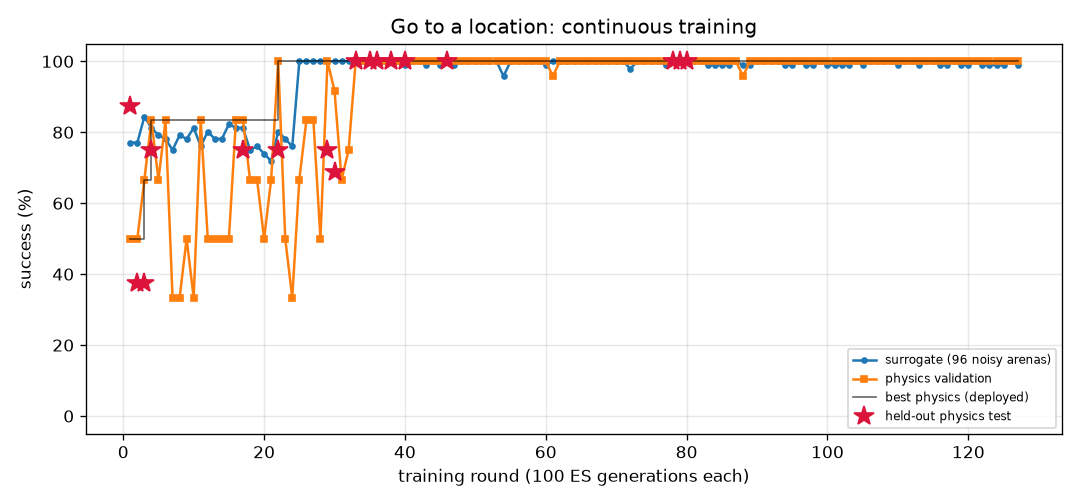
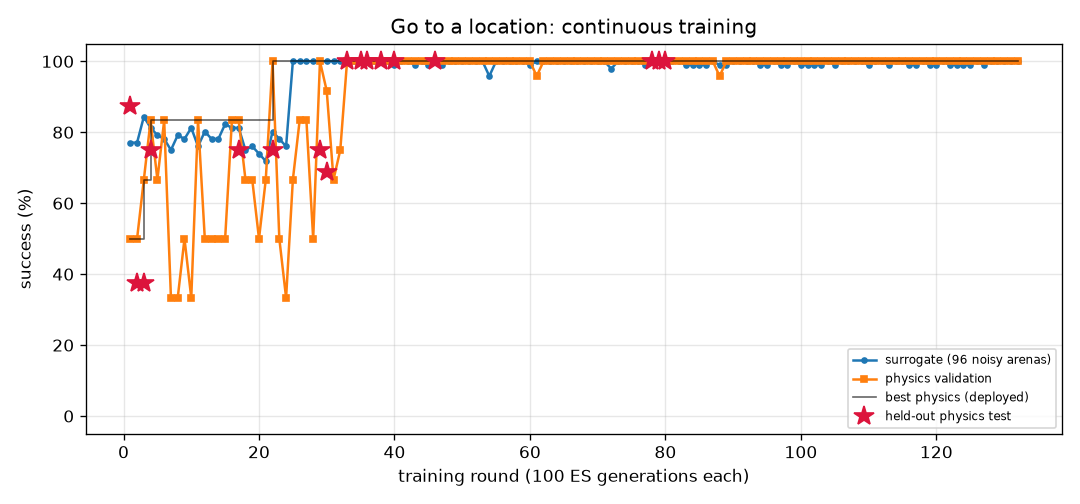
FlyLab: continuous training progress
- walk_forward: optimal, physics val 100% of 24, round 142
- turn: optimal, physics val 100% of 24, round 572
- goto: optimal, physics val 100% of 24, round 132
- odor_seek: optimal, physics val 100% of 24, round 119
- odor_avoid: optimal, physics val 100% of 24, round 560
- light_seek: optimal, physics val 100% of 24, round 316
- light_avoid: optimal, physics val 100% of 24, round 292

diff --git a/projects/09_flylab/training/walk_forward/REPORT.md b/projects/09_flylab/training/walk_forward/REPORT.md
@@ -1,14 +1,14 @@
 # Walk forward (`walk_forward`) — training report
 
-*Auto-generated by `train_brains.py`, last updated 2026-10-20T14:56:50.*
+*Auto-generated by `train_brains.py`, last updated 2026-10-20T18:19:25.*
 
 ![curve](curve.png)
 
 | | |
 |---|---|
-| rounds | 137 |
-| ES generations | 13700 |
-| physics runs | 3302 |
+| rounds | 142 |
+| ES generations | 14200 |
+| physics runs | 3422 |
 | status | **optimal** |
 | best brain | round 116: physics validation **100%** on 24 arenas, surrogate 100% |
 | held-out physics test | **100%** on 32 unseen arenas (95% CI 89%-100%) (errors: [0.13, 0.16, 0.19, 0.16, 0.15, 0.2, 0.17, 0.18, 0.17, 0.19, 0.2, 0.14, 0.17, 0.19, 0.2, 0.2, 0.13, 0.19, 0.16, 0.2, 0.2, 0.16, 0.17, 0.2, 0.13, 0.15, 0.18, 0.14, 0.16, 0.15, 0.19, 0.12]) |
@@ -17,11 +17,6 @@ Physics error per arena: mm from target at the end (< 1.5 and standing still = s
 
 | round | level | gens | sigma | surrogate | physics val | val errors | test | note |
 |---:|---:|---:|---:|---:|---:|---|---:|---|
-| 98 | 3 | 9800 | 0.024 | 100% | 100% | [0.32, 0.33, 0.34, 0.29, 0.32, 0.18, 0.36, 0.24, 0.32, 0.45, 0.19, 0.35, 0.25, 0.21, 0.3, 0.49, 0.33, 0.38, 0.24, 0.41, 0.28, 0.37, 0.38, 0.24] |  |  |
-| 99 | 3 | 9900 | 0.024 | 100% | 100% | [0.2, 0.24, 0.2, 0.19, 0.23, 0.2, 0.24, 0.19, 0.23, 0.25, 0.2, 0.24, 0.2, 0.21, 0.21, 0.25, 0.2, 0.24, 0.19, 0.21, 0.2, 0.25, 0.28, 0.2] |  | restart from best |
-| 100 | 3 | 10000 | 0.024 | 100% | 96% | [0.14, 0.16, 0.12, 0.07, 0.16, 0.12, 0.11, 0.04, 0.09, 0.15, 0.07, 0.16, 0.12, 0.07, 0.08, 0.17, 0.08, 0.17, 0.13, 0.13, 0.14, 0.16, 0.14, 0.12] |  |  |
-| 101 | 3 | 10100 | 0.024 | 100% | 83% | [0.07, 0.19, 0.44, 0.06, 0.18, 0.02, 0.18, 0.04, 0.16, 0.23, 0.03, 0.25, 0.04, 0.08, 0.08, 0.24, 0.06, 0.14, 0.06, 0.1, 0.07, 0.23, 0.23, 0.02] |  |  |
-| 102 | 3 | 10200 | 0.024 | 100% | 83% | [0.09, 0.25, 0.11, 0.07, 0.26, 0.11, 0.26, 0.1, 0.25, 0.26, 0.22, 0.2, 0.1, 0.35, 0.2, 0.22, 0.06, 0.25, 0.06, 0.22, 0.06, 0.26, 0.18, 0.1] |  |  |
 | 103 | 3 | 10300 | 0.024 | 99% | 100% | [0.24, 0.32, 0.26, 0.25, 0.31, 0.26, 0.32, 0.04, 0.32, 0.31, 0.27, 0.3, 0.23, 0.26, 0.27, 0.31, 0.24, 0.31, 0.23, 0.29, 0.23, 0.31, 0.29, 0.23] |  | restart from best |
 | 104 | 3 | 10400 | 0.024 | 100% | 100% | [0.17, 0.25, 0.22, 0.16, 0.26, 0.22, 0.26, 0.18, 0.25, 0.29, 0.23, 0.28, 0.19, 0.22, 0.17, 0.28, 0.17, 0.22, 0.19, 0.19, 0.17, 0.29, 0.28, 0.19] |  |  |
 | 105 | 3 | 10500 | 0.024 | 100% | 100% | [0.09, 0.18, 0.21, 0.07, 0.18, 0.21, 0.19, 0.18, 0.18, 0.26, 0.22, 0.26, 0.19, 0.21, 0.14, 0.26, 0.15, 0.17, 0.18, 0.14, 0.17, 0.26, 0.26, 0.18] |  |  |
@@ -57,3 +52,8 @@ Physics error per arena: mm from target at the end (< 1.5 and standing still = s
 | 135 | 3 | 13500 | 0.024 | 99% | 100% | [0.2, 0.21, 0.17, 0.2, 0.21, 0.15, 0.21, 0.18, 0.21, 0.2, 0.15, 0.18, 0.17, 0.16, 0.21, 0.19, 0.2, 0.21, 0.18, 0.21, 0.18, 0.2, 0.19, 0.17] |  |  |
 | 136 | 3 | 13600 | 0.025 | 100% | 100% | [0.21, 0.3, 0.18, 0.21, 0.29, 0.19, 0.3, 0.17, 0.31, 0.31, 0.2, 0.29, 0.17, 0.18, 0.24, 0.3, 0.19, 0.29, 0.17, 0.26, 0.17, 0.3, 0.29, 0.17] |  | restart from best |
 | 137 | 3 | 13700 | 0.024 | 100% | 100% | [0.25, 0.25, 0.22, 0.25, 0.25, 0.2, 0.25, 0.23, 0.25, 0.24, 0.2, 0.22, 0.23, 0.2, 0.26, 0.23, 0.25, 0.25, 0.23, 0.25, 0.23, 0.24, 0.22, 0.23] |  |  |
+| 138 | 3 | 13800 | 0.024 | 99% | 100% | [0.19, 0.21, 0.15, 0.19, 0.21, 0.15, 0.21, 0.17, 0.21, 0.2, 0.14, 0.19, 0.16, 0.15, 0.2, 0.19, 0.19, 0.21, 0.18, 0.21, 0.18, 0.2, 0.18, 0.16] |  |  |
+| 139 | 3 | 13900 | 0.025 | 99% | 100% | [0.11, 0.09, 0.08, 0.06, 0.09, 0.09, 0.15, 0.1, 0.12, 0.16, 0.07, 0.17, 0.08, 0.07, 0.11, 0.18, 0.1, 0.14, 0.1, 0.11, 0.09, 0.16, 0.18, 0.1] |  |  |
+| 140 | 3 | 14000 | 0.025 | 100% | 100% | [0.2, 0.26, 0.08, 0.2, 0.25, 0.08, 0.25, 0.17, 0.25, 0.26, 0.07, 0.24, 0.16, 0.07, 0.22, 0.25, 0.18, 0.25, 0.16, 0.23, 0.17, 0.25, 0.23, 0.16] |  | restart from best |
+| 141 | 3 | 14100 | 0.024 | 100% | 96% | [0.21, 0.22, 0.15, 0.21, 0.22, 0.03, 0.22, 0.18, 0.22, 0.2, 0.08, 0.07, 0.17, 0.08, 0.21, 0.12, 0.2, 0.22, 0.18, 0.22, 0.2, 0.18, 0.15, 0.18] |  |  |
+| 142 | 3 | 14200 | 0.024 | 100% | 100% | [0.28, 0.26, 0.32, 0.28, 0.26, 0.32, 0.26, 0.32, 0.26, 0.23, 0.31, 0.23, 0.32, 0.32, 0.28, 0.23, 0.29, 0.26, 0.32, 0.28, 0.31, 0.23, 0.22, 0.32] |  |  |

diff --git a/projects/09_flylab/training/goto/REPORT.md b/projects/09_flylab/training/goto/REPORT.md
@@ -1,14 +1,14 @@
 # Go to a location (`goto`) — training report
 
-*Auto-generated by `train_brains.py`, last updated 2026-10-20T17:17:34.*
+*Auto-generated by `train_brains.py`, last updated 2026-10-20T18:11:47.*
 
 ![curve](curve.png)
 
 | | |
 |---|---|
-| rounds | 127 |
-| ES generations | 12700 |
-| physics runs | 2934 |
+| rounds | 132 |
+| ES generations | 13200 |
+| physics runs | 3054 |
 | status | **optimal** |
 | best brain | round 80: physics validation **100%** on 24 arenas, surrogate 100% |
 | held-out physics test | **100%** on 32 unseen arenas (95% CI 89%-100%) (errors: [0.36, 0.41, 0.3, 0.45, 0.32, 0.33, 0.33, 0.31, 0.35, 0.36, 0.39, 0.36, 0.28, 0.31, 0.4, 0.39, 0.34, 0.39, 0.3, 0.34, 0.36, 0.36, 0.44, 0.34, 0.3, 0.33, 0.4, 0.33, 0.29, 0.43, 0.43, 0.39]) |
@@ -17,11 +17,6 @@ Physics error per arena: mm from target at the end (< 1.5 and standing still = s
 
 | round | level | gens | sigma | surrogate | physics val | val errors | test | note |
 |---:|---:|---:|---:|---:|---:|---|---:|---|
-| 88 | 3 | 8800 | 0.024 | 99% | 96% | [0.64, 0.65, 0.59, 0.59, 0.51, 0.58, 0.66, 0.66, 0.68, 0.53, 0.51, 0.58, 0.66, 0.53, 0.56, 0.58, 0.68, 0.6, 0.52, 0.62, 0.57, 0.54, 0.64, 0.59] |  | restart from best |
-| 89 | 3 | 8900 | 0.024 | 99% | 100% | [0.53, 0.45, 0.35, 0.42, 0.34, 0.38, 0.52, 0.41, 0.44, 0.36, 0.35, 0.42, 0.48, 0.34, 0.41, 0.4, 0.51, 0.39, 0.35, 0.47, 0.37, 0.39, 0.49, 0.4] |  |  |
-| 90 | 3 | 9000 | 0.025 | 100% | 100% | [0.53, 0.5, 0.55, 0.47, 0.38, 0.44, 0.5, 0.5, 0.52, 0.41, 0.39, 0.44, 0.52, 0.42, 0.45, 0.45, 0.53, 0.44, 0.38, 0.49, 0.43, 0.4, 0.54, 0.46] |  |  |
-| 91 | 3 | 9100 | 0.024 | 100% | 100% | [0.51, 0.47, 0.46, 0.45, 0.39, 0.41, 0.51, 0.45, 0.46, 0.39, 0.39, 0.43, 0.49, 0.35, 0.46, 0.41, 0.51, 0.39, 0.38, 0.46, 0.38, 0.39, 0.49, 0.42] |  |  |
-| 92 | 3 | 9200 | 0.024 | 100% | 100% | [0.76, 0.72, 0.6, 0.63, 0.53, 0.62, 0.77, 0.62, 0.64, 0.54, 0.52, 0.6, 0.7, 0.49, 0.58, 0.6, 0.71, 0.63, 0.55, 0.65, 0.58, 0.53, 0.71, 0.61] |  | restart from best |
 | 93 | 3 | 9300 | 0.024 | 100% | 100% | [0.53, 0.52, 0.4, 0.48, 0.39, 0.45, 0.49, 0.48, 0.53, 0.42, 0.4, 0.44, 0.53, 0.43, 0.47, 0.47, 0.56, 0.44, 0.4, 0.52, 0.46, 0.43, 0.55, 0.47] |  |  |
 | 94 | 3 | 9400 | 0.024 | 99% | 100% | [0.73, 0.73, 0.59, 0.63, 0.58, 0.65, 0.68, 0.72, 0.74, 0.59, 0.58, 0.61, 0.72, 0.64, 0.71, 0.65, 0.72, 0.64, 0.57, 0.7, 0.64, 0.58, 0.75, 0.65] |  |  |
 | 95 | 3 | 9500 | 0.025 | 99% | 100% | [0.48, 0.46, 0.32, 0.39, 0.31, 0.37, 0.45, 0.39, 0.44, 0.33, 0.32, 0.39, 0.45, 0.36, 0.41, 0.39, 0.48, 0.37, 0.32, 0.43, 0.37, 0.34, 0.5, 0.38] |  |  |
@@ -57,3 +52,8 @@ Physics error per arena: mm from target at the end (< 1.5 and standing still = s
 | 125 | 3 | 12500 | 0.024 | 99% | 100% | [0.54, 0.52, 0.52, 0.4, 0.38, 0.39, 0.52, 0.46, 0.46, 0.38, 0.36, 0.41, 0.47, 0.39, 0.42, 0.45, 0.56, 0.44, 0.37, 0.47, 0.42, 0.39, 0.52, 0.4] |  |  |
 | 126 | 3 | 12600 | 0.025 | 100% | 100% | [0.33, 0.35, 0.36, 0.32, 0.31, 0.32, 0.35, 0.35, 0.35, 0.31, 0.29, 0.32, 0.36, 0.32, 0.37, 0.38, 0.36, 0.29, 0.3, 0.35, 0.36, 0.31, 0.34, 0.32] |  |  |
 | 127 | 3 | 12700 | 0.024 | 99% | 100% | [0.4, 0.39, 0.29, 0.33, 0.3, 0.3, 0.41, 0.34, 0.35, 0.31, 0.29, 0.33, 0.36, 0.3, 0.37, 0.36, 0.43, 0.32, 0.3, 0.36, 0.33, 0.31, 0.4, 0.33] |  |  |
+| 128 | 3 | 12800 | 0.025 | 100% | 100% | [0.49, 0.45, 0.35, 0.4, 0.32, 0.37, 0.47, 0.39, 0.43, 0.38, 0.34, 0.38, 0.46, 0.35, 0.47, 0.42, 0.5, 0.36, 0.36, 0.46, 0.4, 0.39, 0.48, 0.38] |  | restart from best |
+| 129 | 3 | 12900 | 0.024 | 100% | 100% | [0.49, 0.54, 0.52, 0.41, 0.37, 0.42, 0.47, 0.48, 0.48, 0.37, 0.36, 0.39, 0.48, 0.41, 0.44, 0.45, 0.51, 0.42, 0.36, 0.46, 0.43, 0.36, 0.52, 0.42] |  |  |
+| 130 | 3 | 13000 | 0.024 | 100% | 100% | [0.5, 0.49, 0.47, 0.4, 0.38, 0.38, 0.48, 0.43, 0.42, 0.38, 0.38, 0.38, 0.45, 0.38, 0.45, 0.45, 0.51, 0.4, 0.37, 0.43, 0.42, 0.39, 0.48, 0.38] |  |  |
+| 131 | 3 | 13100 | 0.024 | 100% | 100% | [0.32, 0.38, 0.35, 0.34, 0.28, 0.31, 0.38, 0.37, 0.38, 0.29, 0.28, 0.32, 0.36, 0.31, 0.31, 0.36, 0.34, 0.33, 0.28, 0.36, 0.33, 0.29, 0.32, 0.31] |  |  |
+| 132 | 3 | 13200 | 0.024 | 100% | 100% | [0.52, 0.49, 0.38, 0.39, 0.36, 0.4, 0.53, 0.4, 0.44, 0.36, 0.35, 0.39, 0.47, 0.32, 0.4, 0.42, 0.47, 0.43, 0.37, 0.4, 0.39, 0.34, 0.46, 0.4] |  | restart from best |

diff --git a/projects/09_flylab/training/light_seek/REPORT.md b/projects/09_flylab/training/light_seek/REPORT.md
@@ -1,14 +1,14 @@
 # Walk toward light (`light_seek`) — training report
 
-*Auto-generated by `train_brains.py`, last updated 2026-10-20T17:17:37.*
+*Auto-generated by `train_brains.py`, last updated 2026-10-20T17:42:12.*
 
 ![curve](curve.png)
 
 | | |
 |---|---|
-| rounds | 314 |
-| ES generations | 31400 |
-| physics runs | 4384 |
+| rounds | 316 |
+| ES generations | 31600 |
+| physics runs | 4432 |
 | status | **optimal** |
 | best brain | round 295: physics validation **100%** on 24 arenas, surrogate 100% |
 | held-out physics test | **100%** on 32 unseen arenas (95% CI 89%-100%) (errors: [0.58, 0.62, 0.61, 0.63, 0.65, 0.65, 0.73, 0.55, 0.64, 0.59, 0.59, 0.58, 0.69, 0.61, 0.59, 0.6, 0.6, 0.63, 0.59, 0.64, 0.61, 1.11, 0.62, 0.58, 0.58, 0.58, 0.67, 0.63, 0.58, 0.66, 0.67, 0.59]) |
@@ -17,8 +17,6 @@ Physics error per arena: mm from target at the end (< 1.5 and standing still = s
 
 | round | level | gens | sigma | surrogate | physics val | val errors | test | note |
 |---:|---:|---:|---:|---:|---:|---|---:|---|
-| 275 | 3 | 27500 | 0.024 | 100% | 96% | [0.56, 0.69, 0.6, 0.58, 0.53, 0.51, 0.5, 1.16, 1.01, 0.57, 0.52, 0.52, 0.54, 3.85, 0.6, 0.58, 0.6, 0.49, 0.55, 0.58, 0.66, 0.61, 0.74, 0.46] |  | restart from best |
-| 276 | 3 | 27600 | 0.024 | 100% | 100% | [0.44, 0.41, 0.46, 0.91, 0.43, 0.42, 0.42, 0.47, 0.58, 0.45, 0.41, 0.42, 0.42, 0.42, 0.67, 0.41, 0.43, 0.42, 0.42, 0.43, 0.78, 0.48, 0.42, 0.8] |  |  |
 | 277 | 3 | 27700 | 0.024 | 100% | 100% | [0.51, 0.54, 0.5, 0.49, 0.49, 0.5, 0.48, 0.49, 0.54, 0.5, 0.48, 0.55, 0.51, 0.56, 0.47, 0.52, 0.54, 0.5, 0.52, 0.58, 0.53, 0.58, 0.55, 0.52] | 100% | new best |
 | 278 | 3 | 27800 | 0.024 | 100% | 100% | [0.48, 0.56, 0.59, 0.58, 0.48, 0.47, 0.58, 0.59, 0.57, 0.63, 0.47, 0.65, 0.62, 0.47, 0.63, 0.61, 0.49, 0.48, 0.61, 0.98, 0.7, 0.6, 0.58, 0.59] |  |  |
 | 279 | 3 | 27900 | 0.024 | 100% | 100% | [0.53, 0.56, 0.56, 0.54, 0.55, 0.53, 0.53, 0.56, 0.52, 0.61, 0.67, 0.56, 0.52, 0.52, 0.62, 0.57, 0.54, 0.59, 0.53, 0.59, 0.52, 0.63, 0.56, 0.58] |  |  |
@@ -57,3 +55,5 @@ Physics error per arena: mm from target at the end (< 1.5 and standing still = s
 | 312 | 3 | 31200 | 0.024 | 100% | 96% | [0.71, 1.3, 0.73, 0.78, 0.63, 0.63, 0.66, 1.03, 0.75, 0.67, 0.71, 1.34, 0.86, 0.58, 0.67, 0.71, 2.42, 0.74, 0.56, 0.66, 0.66, 0.71, 0.63, 0.79] |  |  |
 | 313 | 3 | 31300 | 0.024 | 100% | 96% | [0.64, 0.65, 0.65, 0.74, 0.62, 1.78, 0.59, 0.77, 0.6, 0.72, 0.59, 0.71, 0.65, 0.65, 1.38, 0.58, 0.55, 1.39, 0.63, 0.74, 0.73, 0.83, 0.6, 0.74] |  |  |
 | 314 | 3 | 31400 | 0.024 | 100% | 100% | [0.6, 0.53, 0.57, 0.6, 0.66, 1.03, 0.49, 0.59, 0.98, 0.6, 0.62, 0.53, 1.0, 0.55, 0.57, 0.53, 0.6, 0.57, 0.56, 0.95, 0.61, 0.58, 0.53, 0.92] |  |  |
+| 315 | 3 | 31500 | 0.024 | 100% | 100% | [0.57, 0.61, 0.59, 0.82, 0.62, 0.61, 0.59, 0.76, 0.56, 0.78, 0.59, 0.64, 0.57, 0.58, 0.63, 0.59, 0.64, 0.75, 0.6, 0.82, 0.59, 0.66, 0.6, 0.6] |  | restart from best |
+| 316 | 3 | 31600 | 0.024 | 100% | 100% | [0.63, 0.67, 0.68, 0.67, 0.7, 0.69, 0.67, 0.67, 0.96, 0.72, 0.9, 0.65, 0.7, 0.66, 0.76, 0.76, 0.71, 0.68, 0.79, 0.64, 0.7, 0.68, 0.64, 0.64] |  |  |

diff --git a/projects/09_flylab/training/TRAINING.md b/projects/09_flylab/training/TRAINING.md
@@ -1,15 +1,15 @@
 # FlyLab brains — continuous training log
 
-*Auto-generated by `train_brains.py`, last updated 2026-10-20T17:17:37.*
+*Auto-generated by `train_brains.py`, last updated 2026-10-20T18:19:25.*
 
 Every skill has its own brain and its own training process: surrogate ES rounds, physics validation in MuJoCo, keep-the-best selection, and a held-out physics test that is never used for selection. See each skill's report for its full round-by-round history. Mastery is progressive: passing a level (100% physics validation, >=95% surrogate) doubles the validation and test arena sets; a brain is **optimal** once it holds up at level 3 (>=95% of 24 validation arenas) AND scores >=90% on the 32 held-out test arenas. Test columns show 95% Wilson confidence intervals.
 
 | skill | rounds | ES generations | physics runs | surrogate | physics val | **physics test** | status |
 |---|---:|---:|---:|---:|---:|---:|---|
-| [Walk forward](walk_forward/REPORT.md) | 137 | 13700 | 3302 | 100% | 100% of 24 | 100% of 32 (CI 89-100%) | **optimal** |
+| [Walk forward](walk_forward/REPORT.md) | 142 | 14200 | 3422 | 100% | 100% of 24 | 100% of 32 (CI 89-100%) | **optimal** |
 | [Turn in place](turn/REPORT.md) | 572 | 57200 | 13974 | 100% | 100% of 24 | 97% of 32 (CI 84-99%) | **optimal** |
-| [Go to a location](goto/REPORT.md) | 127 | 12700 | 2934 | 100% | 100% of 24 | 100% of 32 (CI 89-100%) | **optimal** |
+| [Go to a location](goto/REPORT.md) | 132 | 13200 | 3054 | 100% | 100% of 24 | 100% of 32 (CI 89-100%) | **optimal** |
 | [Find food by smell](odor_seek/REPORT.md) | 119 | 11900 | 2222 | 100% | 100% of 24 | 100% of 32 (CI 89-100%) | **optimal** |
 | [Escape a bad smell](odor_avoid/REPORT.md) | 560 | 56000 | 10746 | 97% | 100% of 24 | 97% of 32 (CI 84-99%) | **optimal** |
-| [Walk toward light](light_seek/REPORT.md) | 314 | 31400 | 4384 | 100% | 100% of 24 | 100% of 32 (CI 89-100%) | **optimal** |
+| [Walk toward light](light_seek/REPORT.md) | 316 | 31600 | 4432 | 100% | 100% of 24 | 100% of 32 (CI 89-100%) | **optimal** |
 | [Hide from light](light_avoid/REPORT.md) | 292 | 29200 | 7280 | 100% | 100% of 24 | 100% of 32 (CI 89-100%) | **optimal** |
